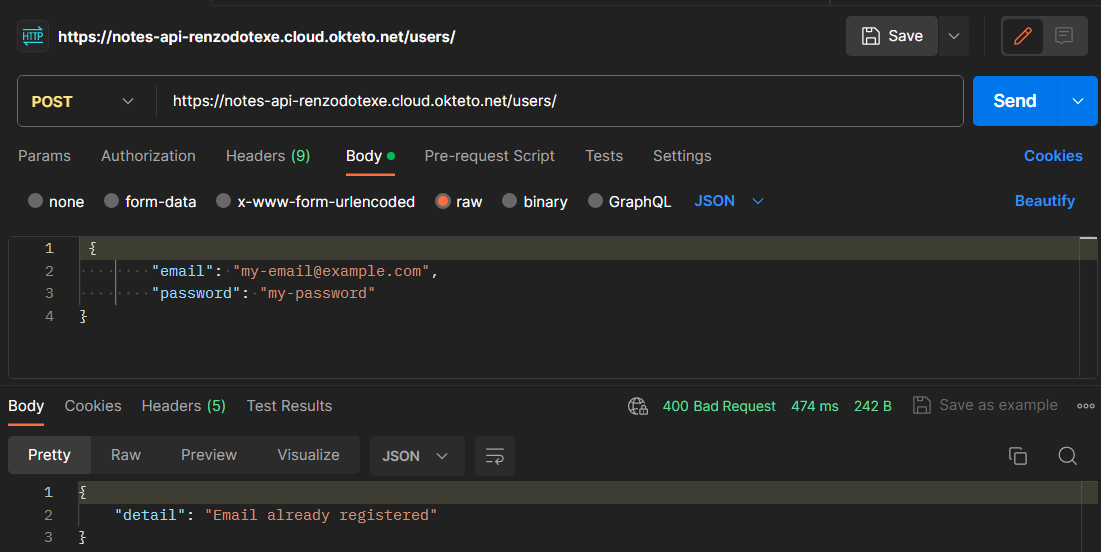
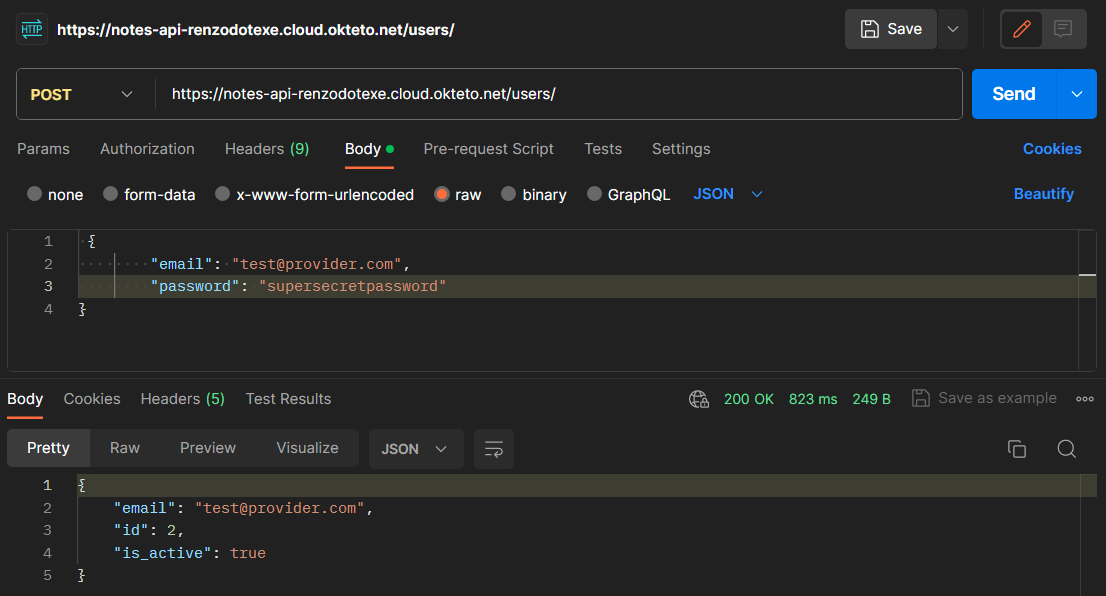
Demo screenshots for POST Create New User

diff --git a/README.md b/README.md
@@ -85,10 +85,12 @@ Hieronder vind je screenshots die de werking van elk API-endpoint demonstreren.
 
 - **Request Body**
   ![Verzoekbody](screenshots/create-user-1.png)
+- **Succes**
+  ![Succes](screenshots/create-user-2.png)
 - **Fout bij duplicaat**
-  ![Fout bij duplicaat](screenshots/create-user-2.png)
+  ![Fout bij duplicaat](screenshots/create-user-3.png)
 - **Verkeerd datatype**
-  ![Verkeerd datatype](screenshots/create-user-3.png)
+  ![Verkeerd datatype](screenshots/create-user-4.png)
 
 ## Volledige OpenAPI Documentatie
 
